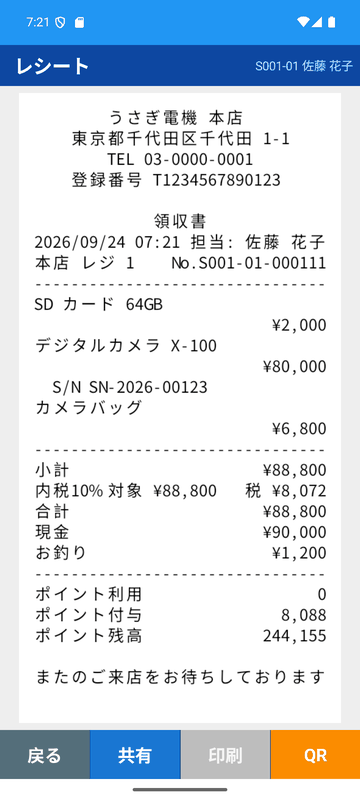
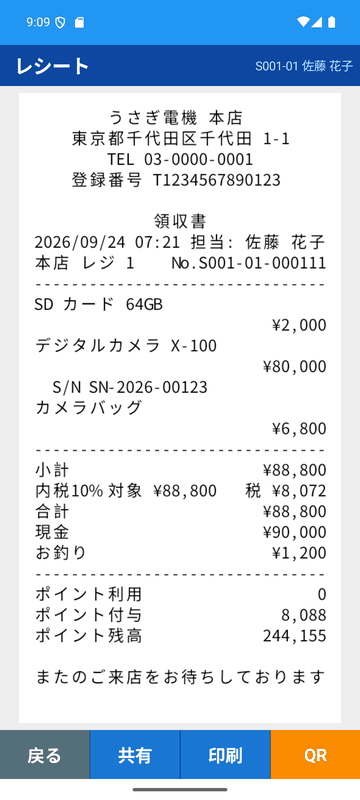
端末の [印刷] を押すと未実装と知らせ、後回しにしていた機能の扱いを決める
- レシートと精算レポートの [印刷] を無効にせず、押すと「印刷は未実装です。」と知らせる
- 外部向け Webhook、管理画面の MFA / パスキー、端末向けの通知 (SignalR)、他システムとの連携は作らないことにする (D-72)
- 発注と受注の前受金は、サーバと端末の中で完結する形で残す (未着手)
- 実装計画の Phase 13 を完了にし (端末向けのハブは作らない)、後回しの項目を整理する
- 設計文書 (decisions・implementation-plan・screen-design) と README のレシートの画像を更新

diff --git a/terminal/Pos.Terminal/Modules/Shift/ShiftReportView.xaml b/terminal/Pos.Terminal/Modules/Shift/ShiftReportView.xaml
@@ -15,7 +15,7 @@
              shell:ShellProperty.Function4Text="ホーム"
              shell:ShellProperty.Function1Enabled="True"
              shell:ShellProperty.Function2Enabled="True"
-             shell:ShellProperty.Function3Enabled="False"
+             shell:ShellProperty.Function3Enabled="True"
              shell:ShellProperty.Function4Enabled="True">
 
     <ScrollView BackgroundColor="{StaticResource GrayLighten3}">

diff --git a/terminal/Pos.Terminal/Modules/Sales/ReceiptView.xaml b/terminal/Pos.Terminal/Modules/Sales/ReceiptView.xaml
@@ -15,7 +15,7 @@
              shell:ShellProperty.Function4Text="QR"
              shell:ShellProperty.Function1Enabled="True"
              shell:ShellProperty.Function2Enabled="True"
-             shell:ShellProperty.Function3Enabled="False"
+             shell:ShellProperty.Function3Enabled="True"
              shell:ShellProperty.Function4Enabled="True">
 
     <!-- ReSharper disable Xaml.RedundantResource -->

diff --git a/terminal/Pos.Terminal/Modules/Shift/ShiftReportViewModel.cs b/terminal/Pos.Terminal/Modules/Shift/ShiftReportViewModel.cs
@@ -3,6 +3,8 @@ namespace Pos.Terminal.Modules.Shift;
 // 精算レポート: 送信済みならサーバの集計、未送信があれば端末の集計を表示する
 public sealed partial class ShiftReportViewModel : AppViewModelBase
 {
+    private readonly IDialog dialog;
+
     private readonly Session session;
 
     private readonly ShiftUsecase shifts;
@@ -18,9 +20,11 @@ public sealed partial class ShiftReportViewModel : AppViewModelBase
     public ObservableCollection<SummarySection> Sections { get; } = [];
 
     public ShiftReportViewModel(
+        IDialog dialog,
         Session session,
         ShiftUsecase shifts)
     {
+        this.dialog = dialog;
         this.session = session;
         this.shifts = shifts;
     }
@@ -92,6 +96,9 @@ public sealed partial class ShiftReportViewModel : AppViewModelBase
         loaded
             ? Share.Default.RequestAsync(new ShareTextRequest { Title = "精算レポート", Text = ShiftReportTextBuilder.Build(HeaderText, SourceText, Sections) })
             : Task.CompletedTask;
+
+    // 印刷は Bluetooth ラインプリンタを前提にしていて、まだ作っていない
+    protected override async Task OnNotifyFunction3() => await dialog.InformationAsync("印刷は未実装です。");
 
     protected override Task OnNotifyFunction4() => Navigator.ForwardAsync(ViewId.Menu);
 }

diff --git a/terminal/Pos.Terminal/Modules/Sales/ReceiptViewModel.cs b/terminal/Pos.Terminal/Modules/Sales/ReceiptViewModel.cs
@@ -92,6 +92,9 @@ public sealed partial class ReceiptViewModel : AppViewModelBase
         await Share.Default.RequestAsync(new ShareFileRequest { Title = $"レシート {ReceiptNo}", File = new ShareFile(path) });
     }
 
+    // 印刷は Bluetooth ラインプリンタを前提にしていて、まだ作っていない
+    protected override async Task OnNotifyFunction3() => await dialog.InformationAsync("印刷は未実装です。");
+
     protected override async Task OnNotifyFunction4()
     {
         QrVisible = !QrVisible;

diff --git a/docs/screen-design.md b/docs/screen-design.md
@@ -118,7 +118,7 @@ F1〜F4 はシェル下部のファンクションキー。
 | T-17 | 保留・呼出 | 会計途中の一時退避 | 保留一覧 (端末ローカルのみ)、選択して呼出 / 破棄 | 戻る | — | 破棄 | 呼出 | — |
 | T-20 | 会計 | 支払を受ける | 合計、ポイント利用 (残高表示)、支払済 / 残り、支払方法ボタン (文言は支払方法の `shortName`、なければ `name`)、**埋め込みテンキー** + 金額ショートカット、[ちょうど]、支払リスト (複数可) | 戻る | ポイント | 会員 | 確定 | `POST /transactions` (Outbox 経由) |
 | T-21 | 会計完了 | 釣銭と結果を見せる | 釣銭を大きく表示 (数え上げ)、販売は合計とお預り、付与ポイント・残高、次の会計へ | — | レシート | — | 次へ | — |
-| T-22 | レシート | 印字内容の確認・発行 | レシートプレビュー (等幅フォント)、電子レシート QR (レシート番号)、共有 (画像) | 戻る | 共有 | 印刷 (無効) | QR | — |
+| T-22 | レシート | 印字内容の確認・発行 | レシートプレビュー (等幅フォント)、電子レシート QR (レシート番号)、共有 (画像) | 戻る | 共有 | 印刷 | QR | — |
 | T-30 | 取引履歴 | 当シフト / 日付の取引を探す | 一覧 (レシート番号・時刻・金額・種別・状態・送信状態)、日付 / 種別の絞り込み、シリアル番号の検索 (オンライン) | 戻る | 絞込 | — | 再送 | ローカル、`GET /transactions?serialNumber=` |
 | T-31 | 取引詳細 | 内容確認と後処理 | 明細・支払・ポイント・配送、取消は同一シフト内のみ有効 (理由は `ReasonSelect`) | 戻る | レシート | 取消 | 返品 | `POST /transactions/{id}/void` |
 | T-40 | 返品 | 元取引を呼び出す | レシート QR スキャン / 番号入力 (自店の端末番号 + 連番を電卓で) / 履歴から選択 → 元取引を表示 | 戻る | スキャン | 番号入力 | 履歴 | `GET /transactions/lookup`, ローカル |
@@ -126,7 +126,7 @@ F1〜F4 はシェル下部のファンクションキー。
 | T-42 | 返金 | 返金方法 | 元の支払方法に応じた返金方法選択 (現金 / カード取消 / ポイント返還)、金額確認 | 戻る | — | — | 確定 | `POST /transactions` (`Type = Return`) |
 | T-50 | 入出金 | 現金の出し入れ | 種別 (入金 / 出金 / ドロワ開) の選択、金額 (`InputNumber`)、理由 (`ReasonSelect`) | 戻る | — | — | 確定 | `POST /shifts/{id}/cash-events` |
 | T-51 | 精算 | シフト終了 | 集計 (現金売上・返金・入出金・予想現金)、未送信が残っていれば警告、実査金額 (`InputNumber` or 金種別)、過不足 | 戻る | 金種入力 | 未送信 | 精算 | `GET /shifts/{id}`, `POST /shifts/{id}/close` |
-| T-52 | 精算レポート | 精算結果 | 支払方法別・税率別・部門別、過不足 | 戻る | 共有 | 印刷 (無効) | ホーム | `GET /shifts/{id}/summary` |
+| T-52 | 精算レポート | 精算結果 | 支払方法別・税率別・部門別、過不足 | 戻る | 共有 | 印刷 | ホーム | `GET /shifts/{id}/summary` |
 | T-60 | 商品・在庫照会 | 価格と在庫を答える | スキャン / 検索 → 画像 (あるときだけ上に出す)・価格・税・還元率・自店在庫、他店在庫 (オンライン、店舗別一覧) | 戻る | スキャン | 検索 | 他店在庫 | ローカル、`GET /products/{id}/image`、`GET /inventory/{productId}` |
 | T-61 | 会員照会 | 会員情報を見る | スキャン / 検索 → 基本情報・残高・ポイント履歴・購入履歴 | 戻る | スキャン | 検索 | 編集 | `GET /customers/{id}`, `.../points/history`, `.../transactions` |
 | T-62 | 会員登録・編集 | 店頭での入会・変更 | 会員番号 (スキャン可)、氏名・かな・電話・メール・住所・生年月日 | 戻る | スキャン | クリア | 保存 | `POST /customers`, `PUT /customers/{id}` |
@@ -153,11 +153,11 @@ F1〜F4 はシェル下部のファンクションキー。
 | T-11 | 同一コードは 2 秒間抑制。検出フラッシュは省き、バイブレーションで知らせる。手入力は電卓 (`InputNumber`) |
 | P-13 | 数量・単価は電卓 (`InputNumber`)、明細値引は取引値引と同じ P-15 (定義済み / 任意額 / 任意率 + 理由)。承認が必要な値引は店長 / 管理者を承認者に選ぶ |
 | T-20 | 金額ショートカットは預り金に加算、[ちょうど] は残り全額。支払が済むと「残り」の行がお釣りになる |
-| T-22 | 受注から会計した取引は受注番号を印字する。プレビューは `ReceiptTextBuilder` の 32 桁テキストを SkiaSharp で桁位置描画した画像 (端末フォントが等幅でなくても崩れない)。共有は PNG。描画は背景スレッド (`Task.Run`) で行い、終わるまでインジケータを出す。シリアル番号で探した他の店舗・端末の取引は、その店舗と端末で組み立てる。[印刷] は Bluetooth ラインプリンタを前提にしていて、今は無効 ([D-68](decisions.md#d-68-端末の印刷は-bluetooth-ラインプリンタを前提にし今は作らない)) |
+| T-22 | 受注から会計した取引は受注番号を印字する。プレビューは `ReceiptTextBuilder` の 32 桁テキストを SkiaSharp で桁位置描画した画像 (端末フォントが等幅でなくても崩れない)。共有は PNG。描画は背景スレッド (`Task.Run`) で行い、終わるまでインジケータを出す。シリアル番号で探した他の店舗・端末の取引は、その店舗と端末で組み立てる。[印刷] は Bluetooth ラインプリンタを前提にしていて、今は押すと「印刷は未実装です」と知らせる ([D-68](decisions.md#d-68-端末の印刷は-bluetooth-ラインプリンタを前提にし今は作らない)) |
 | T-30 | 絞り込みは画面上部のボタン (期間: 本シフト / 本日 / 昨日 / すべて、種別) で、その下に件数の内訳をチップで出す。行は種別・送信状態・会員のチップと時刻・担当・支払を示し、右端で明細と支払を展開する。送信状態は Outbox から (送信済 / 未送信 / 要確認)。最上段の検索欄でシリアル番号 (完全一致) を探すと、一覧をサーバの全店の取引に置き換える (件数は「シリアル n 件」)。空で検索するか期間・種別を選び直すと端末の履歴に戻る |
 | T-31 | 明細にシリアル番号 (S/N) を表示し、受注から会計した取引は受注番号の欄を出す。端末にない取引 (シリアル番号で探した他の端末の取引) はオンラインのときにサーバから開く。営業日が締め済みの取消はサーバが拒否し (`DAY_CLOSED`)、未送信の要確認に出る (端末は締めの状態を持たないので事前には知らせない) |
 | T-42 | ポイント返還は自動 (利用ポイント分)、残りは返金方法を 1 つ選ぶ (元の支払方法を先頭に) |
-| T-51 / T-52 | 予想現金はローカルの取引・入出金から (`ShiftSummaryCalculator`)。精算レポートは未送信がなければサーバの集計、あれば端末の集計 |
+| T-51 / T-52 | 予想現金はローカルの取引・入出金から (`ShiftSummaryCalculator`)。精算レポートは未送信がなければサーバの集計、あれば端末の集計。[印刷] は T-22 と同じく未実装と知らせる |
 | T-62 | スキャン (T-11) へ行く間の入力内容は `CustomerDraft` (Scope) に残す |
 | T-70 | 棚卸 / 調整のモードと入力リストは `StockContext` (Scope) に置き、スキャン画面との往復で失わない。コードは電卓かスキャンで入力する |
 | T-71 / T-72 | オンライン限定 ([D-71](decisions.md#d-71-入荷と店舗間移動-伝票で持ち受領出荷で在庫を動かす))。検品中の伝票と数えた数は `ReceivingContext` (Scope) に置き、スキャン画面との往復で失わない。伝票にない商品は受け付けない。数えていない明細は予定 (移動は出荷) の数で受け取り、受領の確認でその件数を知らせる。受領したら在庫の差分同期をすぐ行う |

diff --git a/docs/decisions.md b/docs/decisions.md
@@ -39,6 +39,7 @@ POS サーバ API / DB 設計にあたって行った判断の記録。
 | レシートと印刷 | 控えは管理画面から PDF (サーバの帳票)。端末の印刷は Bluetooth ラインプリンタを前提にし、今は作らない | [D-67](#d-67-レシートの控え-pdf-サーバの帳票で端末と同じ項目を出す), [D-68](#d-68-端末の印刷は-bluetooth-ラインプリンタを前提にし今は作らない) |
 | 管理画面の自動更新 | 書き込みの後にプロセス内で通知し、ダッシュボードが読み直す (SignalR は使わない) | [D-70](#d-70-管理画面の自動更新-プロセス内の通知でダッシュボードを読み直す) |
 | 入荷・店舗間移動 | 伝票 (入荷予定・移動の依頼) で持ち、受領・出荷の操作で在庫を動かす。端末は自店宛の受領待ちを検品して受領する | [D-71](#d-71-入荷と店舗間移動-伝票で持ち受領出荷で在庫を動かす) |
+| 後回しの機能 | 外部向け Webhook、管理画面の MFA / パスキー、端末向けの通知 (SignalR)、他システムとの連携は作らない。発注と受注の前受金はサーバと端末の中で完結する形で残す | [D-72](#d-72-後回しにしていた機能の扱い-外部連携と端末向けの通知は作らない) |
 | リポジトリ | モノレポ。`server/Pos.Server.slnx` と `terminal/Pos.Terminal.slnx` を VS で個別に開く。共有は `shared/` | [D-32](#d-32-リポジトリ構成-モノレポ--2-ソリューション) |
 | 進め方 | フェーズ単位のチェックリスト (implementation-plan.md) | [D-33](#d-33-実装の進め方-フェーズ単位のチェックリスト) |
 
@@ -744,7 +745,7 @@ MVP (Phase 0〜7) の完了後、後回しにしていた項目 (認証・端末
 - 通知 (SignalR) と在庫移動・入荷は他の機能に依存されないので後ろに置く
 - 各フェーズの詳細設計 (api / db / screen の該当節と `D-4x`) はフェーズ着手時に行う。  
   計画は [implementation-plan.md](implementation-plan.md#phase-8-以降-後回し項目の計画)
-- 引き続き対象外: 外部向け Webhook、Bluetooth レシートプリンタ、受注の前受金、発注、管理画面の MFA / パスキー
+- 引き続き対象外: 外部向け Webhook、Bluetooth レシートプリンタ、受注の前受金、発注、管理画面の MFA / パスキー (扱いはのちに [D-72](#d-72-後回しにしていた機能の扱い-外部連携と端末向けの通知は作らない) で決めた)
 
 ### D-43. 端末シェルのデザイン: POS 画面に合わせる
 
@@ -1083,7 +1084,7 @@ Android の標準フォントに文字の形がある記号 (ℹ ⚙ ↩ ▶ ⬇
 - 認証で変わる箇所は、ソースに `// 認証の導入時:` (razor は `@* 認証の導入時: … *@`) の注記を付け、何を変えるかを書く。  
   一覧は [implementation-plan.md](implementation-plan.md#phase-8-認証端末登録) の Phase 8 に置き、Phase 8 で注記を消していく
 - 新しい endpoint は api-design の「用途」列で管理 / 端末を分けておく (Phase 8 で認可ポリシーを割り当てる元になる)
-- 端末向けの通知 (Phase 13a) は端末トークンで接続を認証するので、Phase 8 のあとにする。  
+- 端末向けの通知 (Phase 13a) は端末トークンで接続を認証するので、Phase 8 のあとにする (のちに作らないことにした。[D-72](#d-72-後回しにしていた機能の扱い-外部連携と端末向けの通知は作らない))。  
   管理画面の自動更新 (Phase 13b) はサーバ内で閉じるので先に作る
 
 ### D-63. 日次締め: 締めた時点の日計を持ち、締め後の取消を止める
@@ -1238,8 +1239,8 @@ Android の標準フォントに文字の形がある記号 (ℹ ⚙ ↩ ▶ ⬇
 
 **決定**: 端末の印刷は Bluetooth のラインプリンタ (ESC/POS のレシートプリンタ) を前提にし、今は作らない (利用者指示)。
 
-- A4 の印刷や PDF の保存はレジの運用で使わないので、OS の印刷は使わない。  
-  T-22 / T-52 の [印刷] は無効のまま
+- A4 の印刷や PDF の保存はレジの運用で使わないので、OS の印刷は使わない
+- T-22 / T-52 の [印刷] は無効にせず、押すと「印刷は未実装です」と知らせる (利用者指示)
 - 作るときは、32 桁のレシート文字列 (`ReceiptTextBuilder`) をラインプリンタに送る形にする
 - 控えが要るときは管理画面のレシート PDF ([D-67](#d-67-レシートの控え-pdf-サーバの帳票で端末と同じ項目を出す)) か、端末の共有 (画像) を使う
 
@@ -1273,7 +1274,7 @@ Android の標準フォントに文字の形がある記号 (ℹ ⚙ ↩ ▶ ⬇
 - 対象はダッシュボードだけにした。  
   一覧のページは検索条件や選択を持つので、勝手に読み直すと操作を妨げる
 - サーバを複数にすると、他のサーバの書き込みは届かない。  
-  そのときは端末向けのハブと合わせて SignalR (バックプレーン) にする
+  単一のサーバを前提にし、複数にするときはサーバ間で通知を配る仕組みを別に考える
 
 ### D-71. 入荷と店舗間移動: 伝票で持ち、受領・出荷で在庫を動かす
 
@@ -1305,5 +1306,19 @@ Android の標準フォントに文字の形がある記号 (ℹ ⚙ ↩ ▶ ⬇
   計画では入荷検品と移動受領を別の画面にしていたが、自店宛の受領待ちを 1 つの一覧にまとめ、検品は入荷と移動で同じ画面にした (スキャンか JAN の入力で明細を選び、届いた数を入れる)
 - 移動の応答は出荷店・入荷店の名前を、入荷の応答は仕入先の名前を持つ (一覧を出すのに名前を別に引かなくてよい)
 - 仕入先の画面は計画の商品のグループではなく、調整理由と同じ在庫のグループに置いた (API も `/inventory/suppliers` で、在庫の業務だけで使う)
-- 発注 (仕入先への注文) は作らない。  
+- 発注 (仕入先への注文) はこのフェーズでは作らない (サーバと端末の中で完結する形で後に作る。[D-72](#d-72-後回しにしていた機能の扱い-外部連携と端末向けの通知は作らない))。  
   入荷予定は管理画面で登録する
+
+### D-72. 後回しにしていた機能の扱い: 外部連携と端末向けの通知は作らない
+
+計画で後回しにしていた項目 (外部向け Webhook、管理画面の MFA / パスキー、端末向けの通知、受注の前受金、発注) の扱いを決める。
+
+**決定**: 外部向け Webhook、管理画面の MFA / パスキー、端末向けの通知 (SignalR のハブ、Phase 13a) は作らない。  
+他のシステムとの連携も作らない (利用者指示)。
+
+- 端末はこれまでどおり、書き込みの直後と 5 分ごとの差分同期でマスタと在庫に追い付く。  
+  端末の登録の解除は、次の要求が 401 になったときに知る (Phase 8)
+- 発注と受注の前受金 (内金) は、サーバと端末の中で完結する形で残す (未着手)。  
+  発注は仕入先への注文を記録して入荷予定と受領につなげ、注文を仕入先に届ける部分 (EDI やメールでの送信など) は作らない。  
+  前受金は受注の登録で受け取り、会計で差し引き、キャンセルで返す
+- 端末の印刷は Bluetooth ラインプリンタを前提にしたまま残す ([D-68](#d-68-端末の印刷は-bluetooth-ラインプリンタを前提にし今は作らない))
